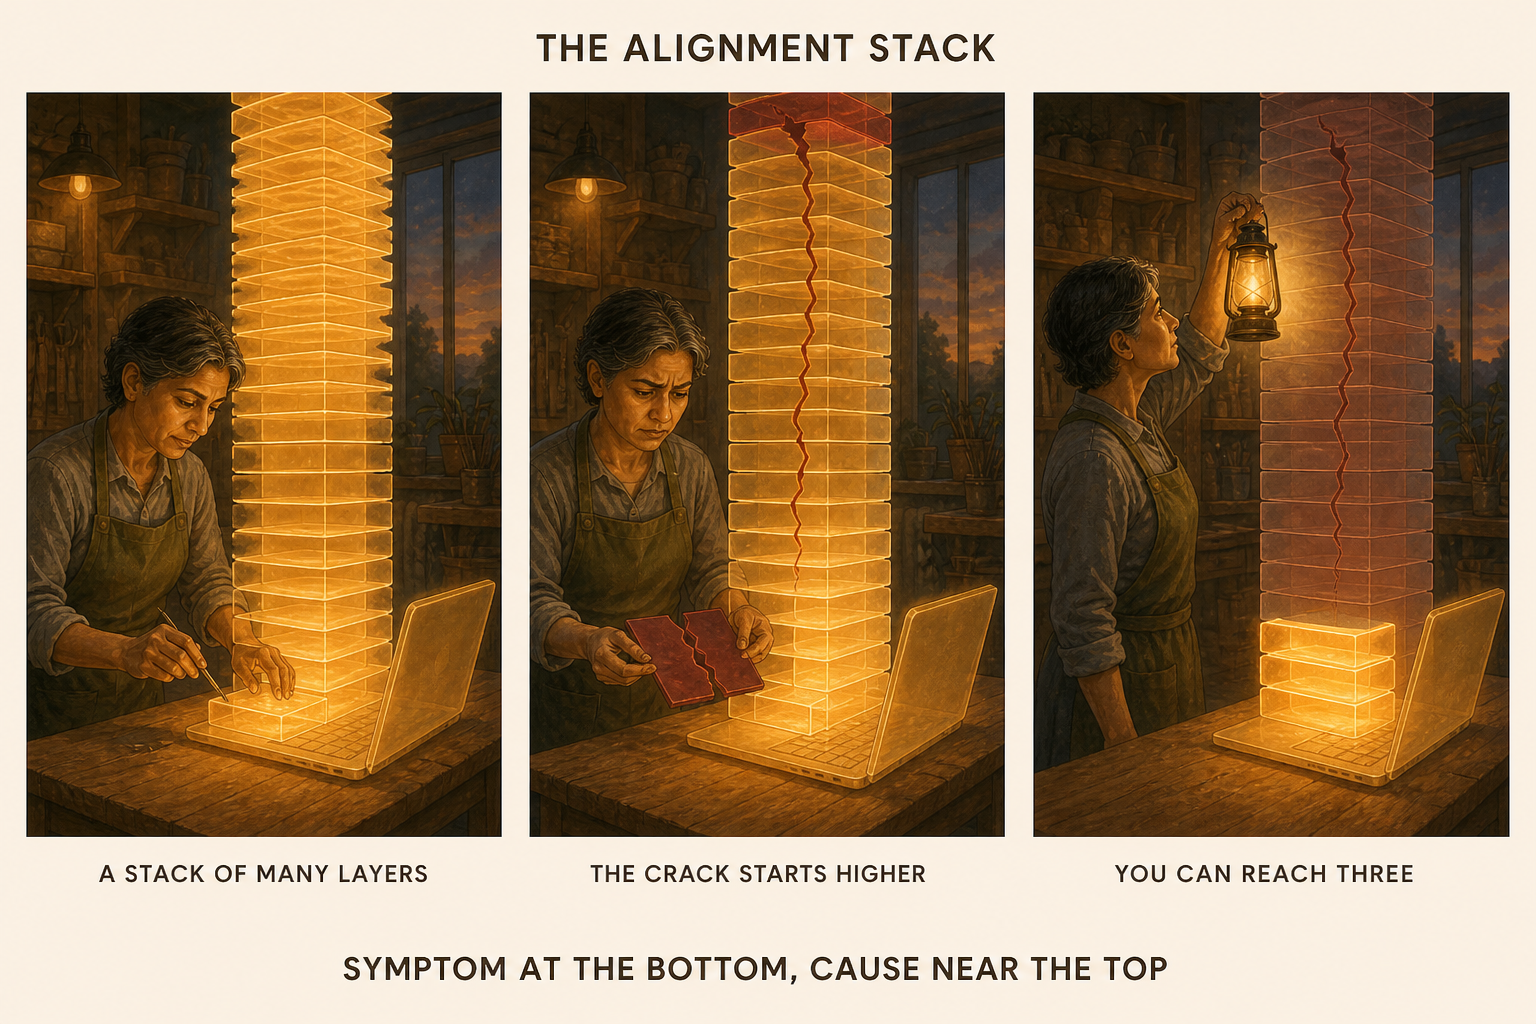
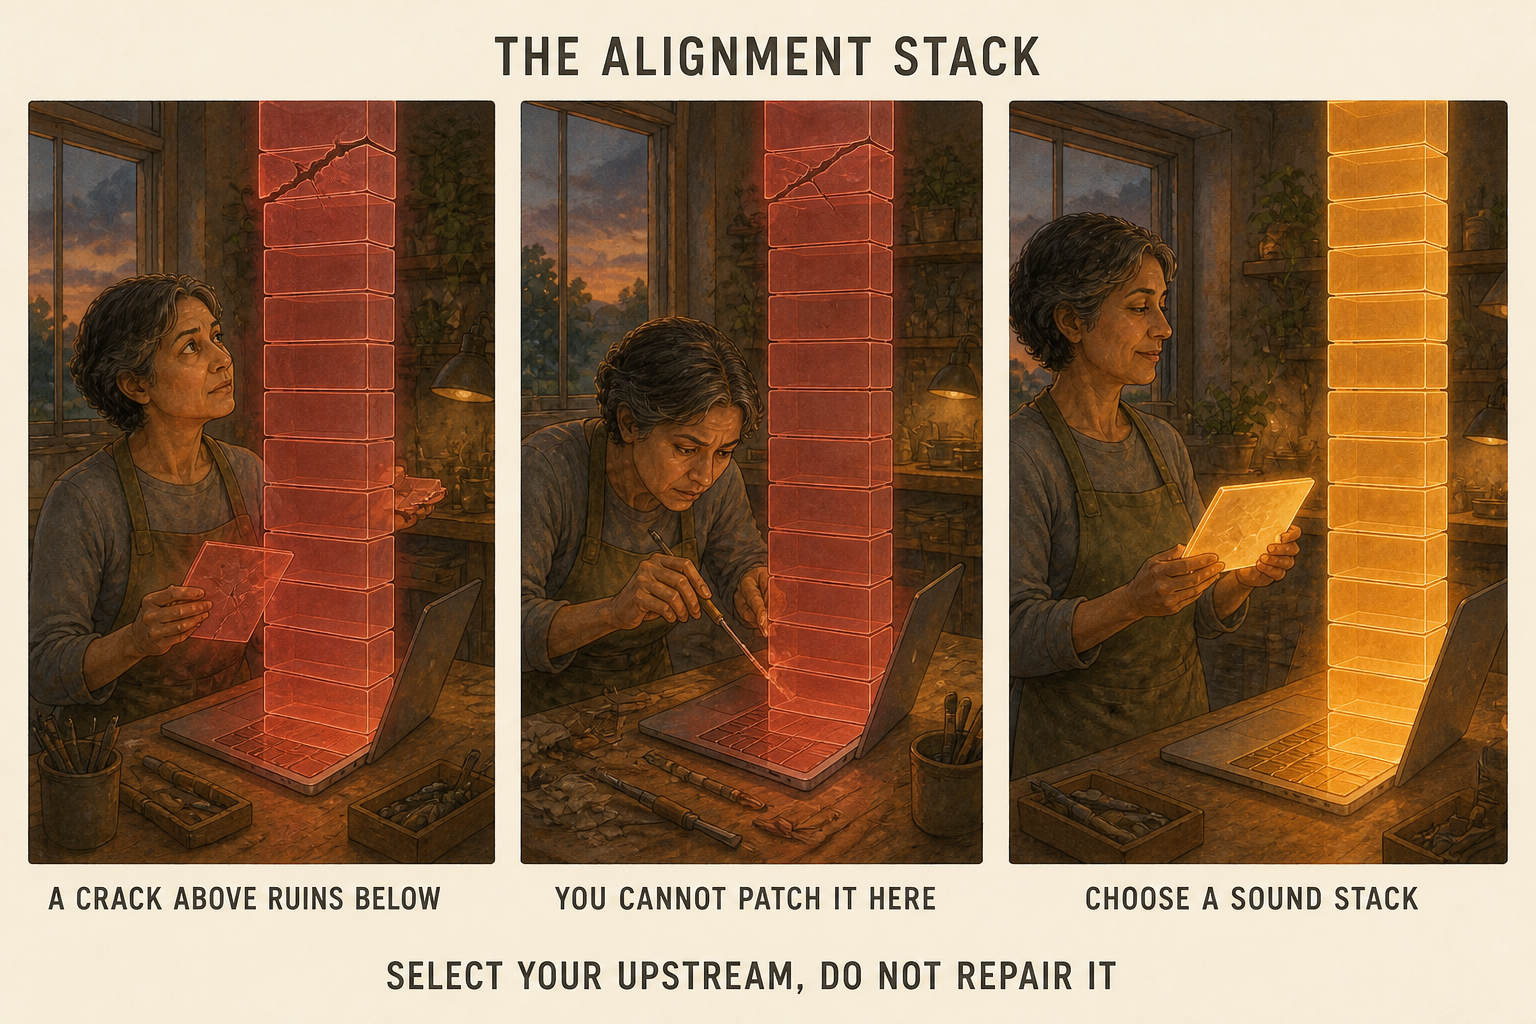
Reframe the alignment stack around selection, not repair
The page argued that no layer repairs a misalignment above it, and then its
applied section led with absorbing failures and its hero showed an engineer
patching a cracked column. Both taught the opposite of the thesis.

Contamination propagates. A crack high in the stack does not leave the layers
beneath it partly sound, because everything below takes the compromised output
as its input, so there is no amber anywhere below a crack and a patch at the
bottom produces something that looks repaired.

New section makes the move explicit: you select your upstream rather than
repairing it, and the choice of model, lab, governance and jurisdiction sets the
ceiling on everything after it. Qualified, because nothing at any layer is fully
aligned and an absolute rule either paralyzes or manufactures compliance. The
workable version is comparative: select the most aligned stack available, name
the residual, disclose it rather than absorbing it.

The four modes became five and reordered to select, refuse, constrain, detect
and disclose, contain narrowly. Containment last is the correction.

Hero regenerated to match: a red column red all the way down, a repair that
changes nothing, and a different sound column chosen.

diff --git a/docs/concepts/the-alignment-stack.md b/docs/concepts/the-alignment-stack.md
@@ -1,7 +1,7 @@
 ---
 title: "The Alignment Stack"
 slug: /concepts/the-alignment-stack
-description: "The seventeen layers standing between a human value and a deployed model's output. Each one aligns something to something else, each one is decided by a person, and each one fails in its own way."
+description: "The seventeen layers standing between a human value and a deployed model's output. No layer repairs a misalignment above it, which makes choosing your upstream the decision that sets your ceiling."
 image: "/img/comics/the-alignment-stack.png"
 ---
 
@@ -9,7 +9,7 @@ image: "/img/comics/the-alignment-stack.png"
 
 *The seventeen layers standing between a human value and a deployed model's output. Each one aligns something to something else, each one is decided by a person, and each one fails in its own way.*
 
-![Three panels in a warm workshop at dusk, the same woman in an olive apron in each, a glowing laptop on her bench with a tall column of translucent panes rising out of its screen. Amber means a layer is sound and dull red means a layer has failed. One: every pane glows amber and unbroken while she works with hand tools on the lowest few, the column continuing up past the top of the frame. Two: a red crack has torn through a pane high above her head and runs down through the panes, and the finished piece in her hands is split and stained the same red while she looks down at it rather than up at the crack. Three: she raises a lantern to trace the red crack upward, and exactly three panes at the base glow bright amber while everything above is dim and out of reach.](/img/comics/the-alignment-stack.png)
+![Three panels in a warm workshop at dusk, the same woman in an olive apron in each, working at a laptop from which tall columns of stacked translucent panes rise past the top of the frame. Amber means sound and dull red means failed, and a column goes red from the crack all the way down. One: a red crack high up has turned every pane beneath it red down to the laptop, and the finished piece in her hands is red and split while she looks up at the crack. Two: she works the lowest panes with a tool and they stay stubbornly red, the repair changing nothing. Three: she has turned away from the red column to a different column that glows sound amber from bench to ceiling, holding a whole amber piece, having chosen rather than repaired.](/img/comics/the-alignment-stack.png)
 
 ---
 
@@ -83,7 +83,27 @@ This is the structural claim, and most bad reasoning about alignment violates it
 
 A lower layer can catch **instances**. It cannot fix **causes**. A guard can refuse this output, and it does not make the model aligned. A perfect system prompt cannot fix a captured lab. Liability law cannot fix a race between states.
 
-So "we will handle it at the application layer" is a category error, and so is "the lab will handle it." Each is proposing that one layer absorb a failure originating somewhere it cannot reach. What a lower layer can honestly promise is containment of known failure shapes, which is worth a great deal and is not the same as alignment.
+So "we will handle it at the application layer" is a category error, and so is "the lab will handle it." Each is proposing that one layer absorb a failure originating somewhere it cannot reach. What a lower layer can honestly promise is containment of failure shapes it already knows about, which is worth a great deal and is not alignment.
+
+A crack high in the stack does not leave the layers beneath it partly sound. Everything below inherits the compromised output as its input, so the run below the crack is compromised, and a patch applied at the bottom produces something that looks repaired and is not.
+
+## You select your upstream, you do not repair it
+
+Everything above adds up to one move, and it is a decision rather than a technique.
+
+Because no layer repairs a misalignment above it, the highest-leverage thing anyone at the application layers does is **choose which upstream they inherit**. Which model, from which lab, operating under which governance, in which jurisdiction. That choice is made once, usually early, usually on price and capability, and it silently sets the ceiling on everything the system can be trusted to do afterward.
+
+The instinct this replaces is the engineering instinct, and it is the one to catch. Presented with a misaligned upstream, a good engineer starts designing compensations. The compensations work on the failure shapes they were designed for and produce confidence out of proportion to what they cover, because the ones nobody imagined are precisely the ones no compensation was written for.
+
+**One honest qualifier, and it matters.** Nothing at any layer is fully aligned. There is no fully aligned country, no fully aligned company, and no fully aligned model, so a rule stated in absolutes either paralyzes or manufactures a false sense of having complied with it.
+
+The workable version is comparative and it has three parts:
+
+- **Select the most aligned stack actually available to you**, and be specific about what "most aligned" means at each layer: whether the lab publishes commitments that can refuse a launch, whether the spec ranks its own conflicts, whether the jurisdiction has a real liability regime.
+- **Name the residual.** Whatever misalignment you inherit and cannot reach, write it down as inherited risk carried by the system.
+- **Disclose it rather than absorbing it.** The person relying on the outcome should know which layers you control and which you are trusting. Containment presented as alignment is the failure this whole page exists to prevent.
+
+Selection is also the only move that scales, because it is the one that composes with everyone else's. A market where buyers select on alignment is the mechanism by which layers 2, 3 and 4 feel any pressure at all.
 
 ## Symptoms surface near the artifact and causes sit far upstream
 
@@ -113,12 +133,15 @@ Stacking protects you from disasters. It does not deliver quality. Those are dif
 
 If you are an applied AI engineer, you own layers 11, 12 and 13, you strongly influence 14, and you are downstream of thirteen layers of decisions made by people you will never meet.
 
-That is not a reason for fatalism. It is a job description, and it has four honest modes:
+That is not a reason for fatalism. It is a job description, and the modes run in this order on purpose:
 
-- **Absorb.** Failures you can contain at your layers. A model that is occasionally sycophantic is survivable if your evaluator does not ask the model to grade itself. Design as though the layers above you will fail sometimes, because they will.
-- **Detect and report.** Failures you cannot fix but can see. You are one of the few people positioned to observe layer 8 behavior against real workloads. An unreported observation is a layer 17 failure with your name on it.
-- **Constrain.** Failures you can make unreachable rather than unlikely. This is layer 11 and it is the highest-leverage thing on your desk. Breaking one leg of the lethal trifecta is worth more than any amount of instruction.
-- **Refuse.** Systems where the layers you do not own are misaligned badly enough that no work at your layers makes the outcome acceptable. This is a real professional option and it is the one that never appears in a framework.
+- **Select.** The decision that sets your ceiling, and the only one that reaches the layers you do not own. Made once, early, and usually without anyone noticing they were making it. See above.
+- **Refuse.** Systems where the layers you do not own are misaligned badly enough that no work at your layers makes the outcome acceptable. This is a real professional option, it is the second most powerful thing on this list, and it is the one that never appears in a framework.
+- **Constrain.** Failures you can make unreachable rather than unlikely. This is layer 11 and it is the highest-leverage build work on your desk. Breaking one leg of the lethal trifecta is worth more than any amount of instruction.
+- **Detect and disclose.** Failures you cannot fix but can see. You are one of the few people positioned to observe layer 8 behavior against real workloads. An unreported observation is a layer 17 failure with your name on it, and a disclosed one transfers the decision to the person entitled to make it.
+- **Contain, narrowly.** Failure shapes that originate at your own layers, plus known shapes from above whose blast radius you can bound. Legitimate, bounded, and never to be described as making the system aligned.
+
+Containment sits last on purpose, and most practitioners rank it first. Compensating for a bad upstream is the work that feels most like engineering and pays the least, which is exactly why it attracts the effort that selection deserved.
 
 A practitioner who believes their job starts at the system prompt is carrying thirteen layers of unexamined assumption and calling it a stack that works.
 
